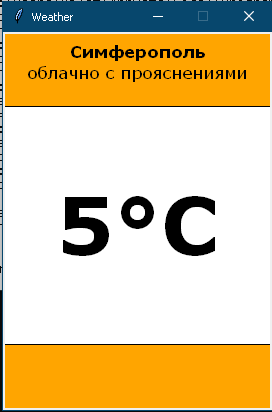
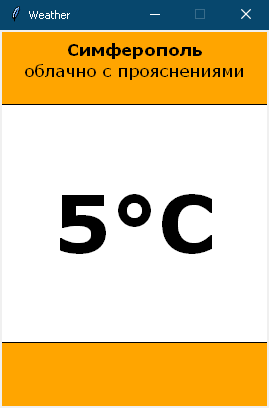
edit ReadMe lab01

diff --git a/Lab/01/README.md b/Lab/01/README.md
@@ -190,7 +190,7 @@ c.bind("<Button-1>", on_click)
 window.geometry('269x378')
 window.mainloop()
 ```
-<p align="center"> <img width="272" height="412" src="./images/03.png"> </p>
+<p align="center"> <img width="269" height="408" src="./images/03.png"> </p>
 <p align="center"> Рисунок 3 - Интерфейс клиенского приложения </p> </br>
 
 6. Для защиты работы скачал программу ngrok, протестировал ее работоспособность.
